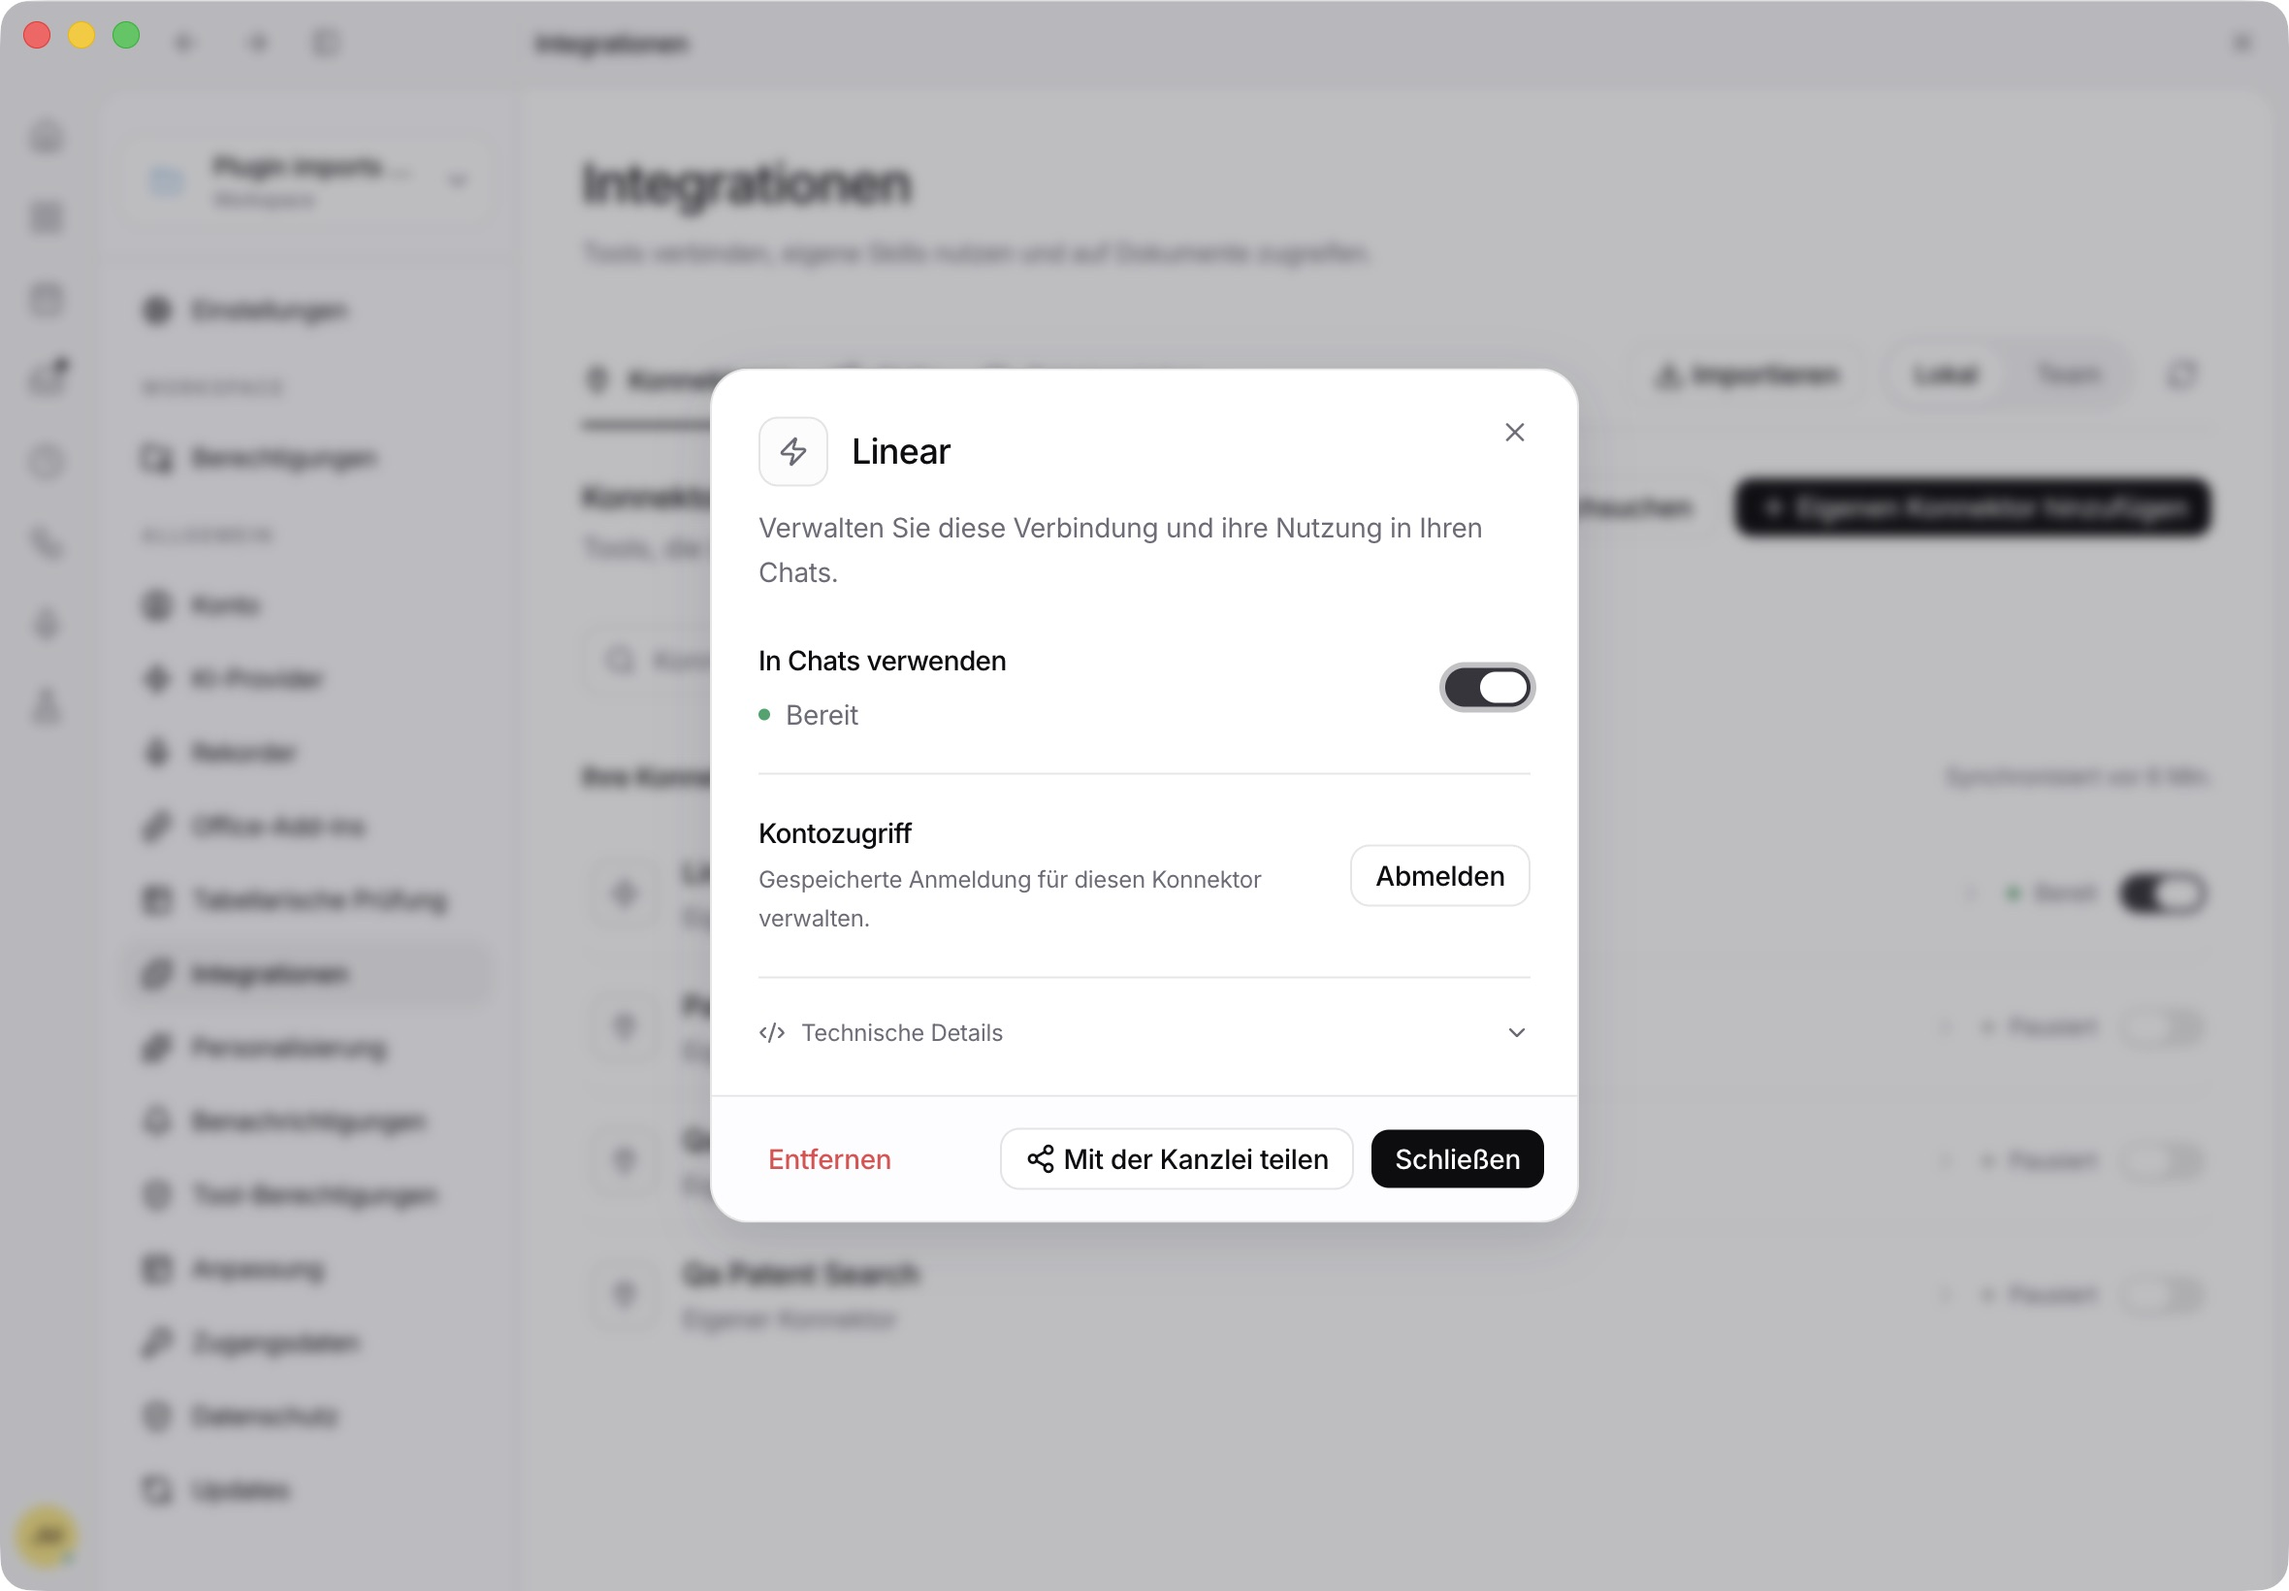
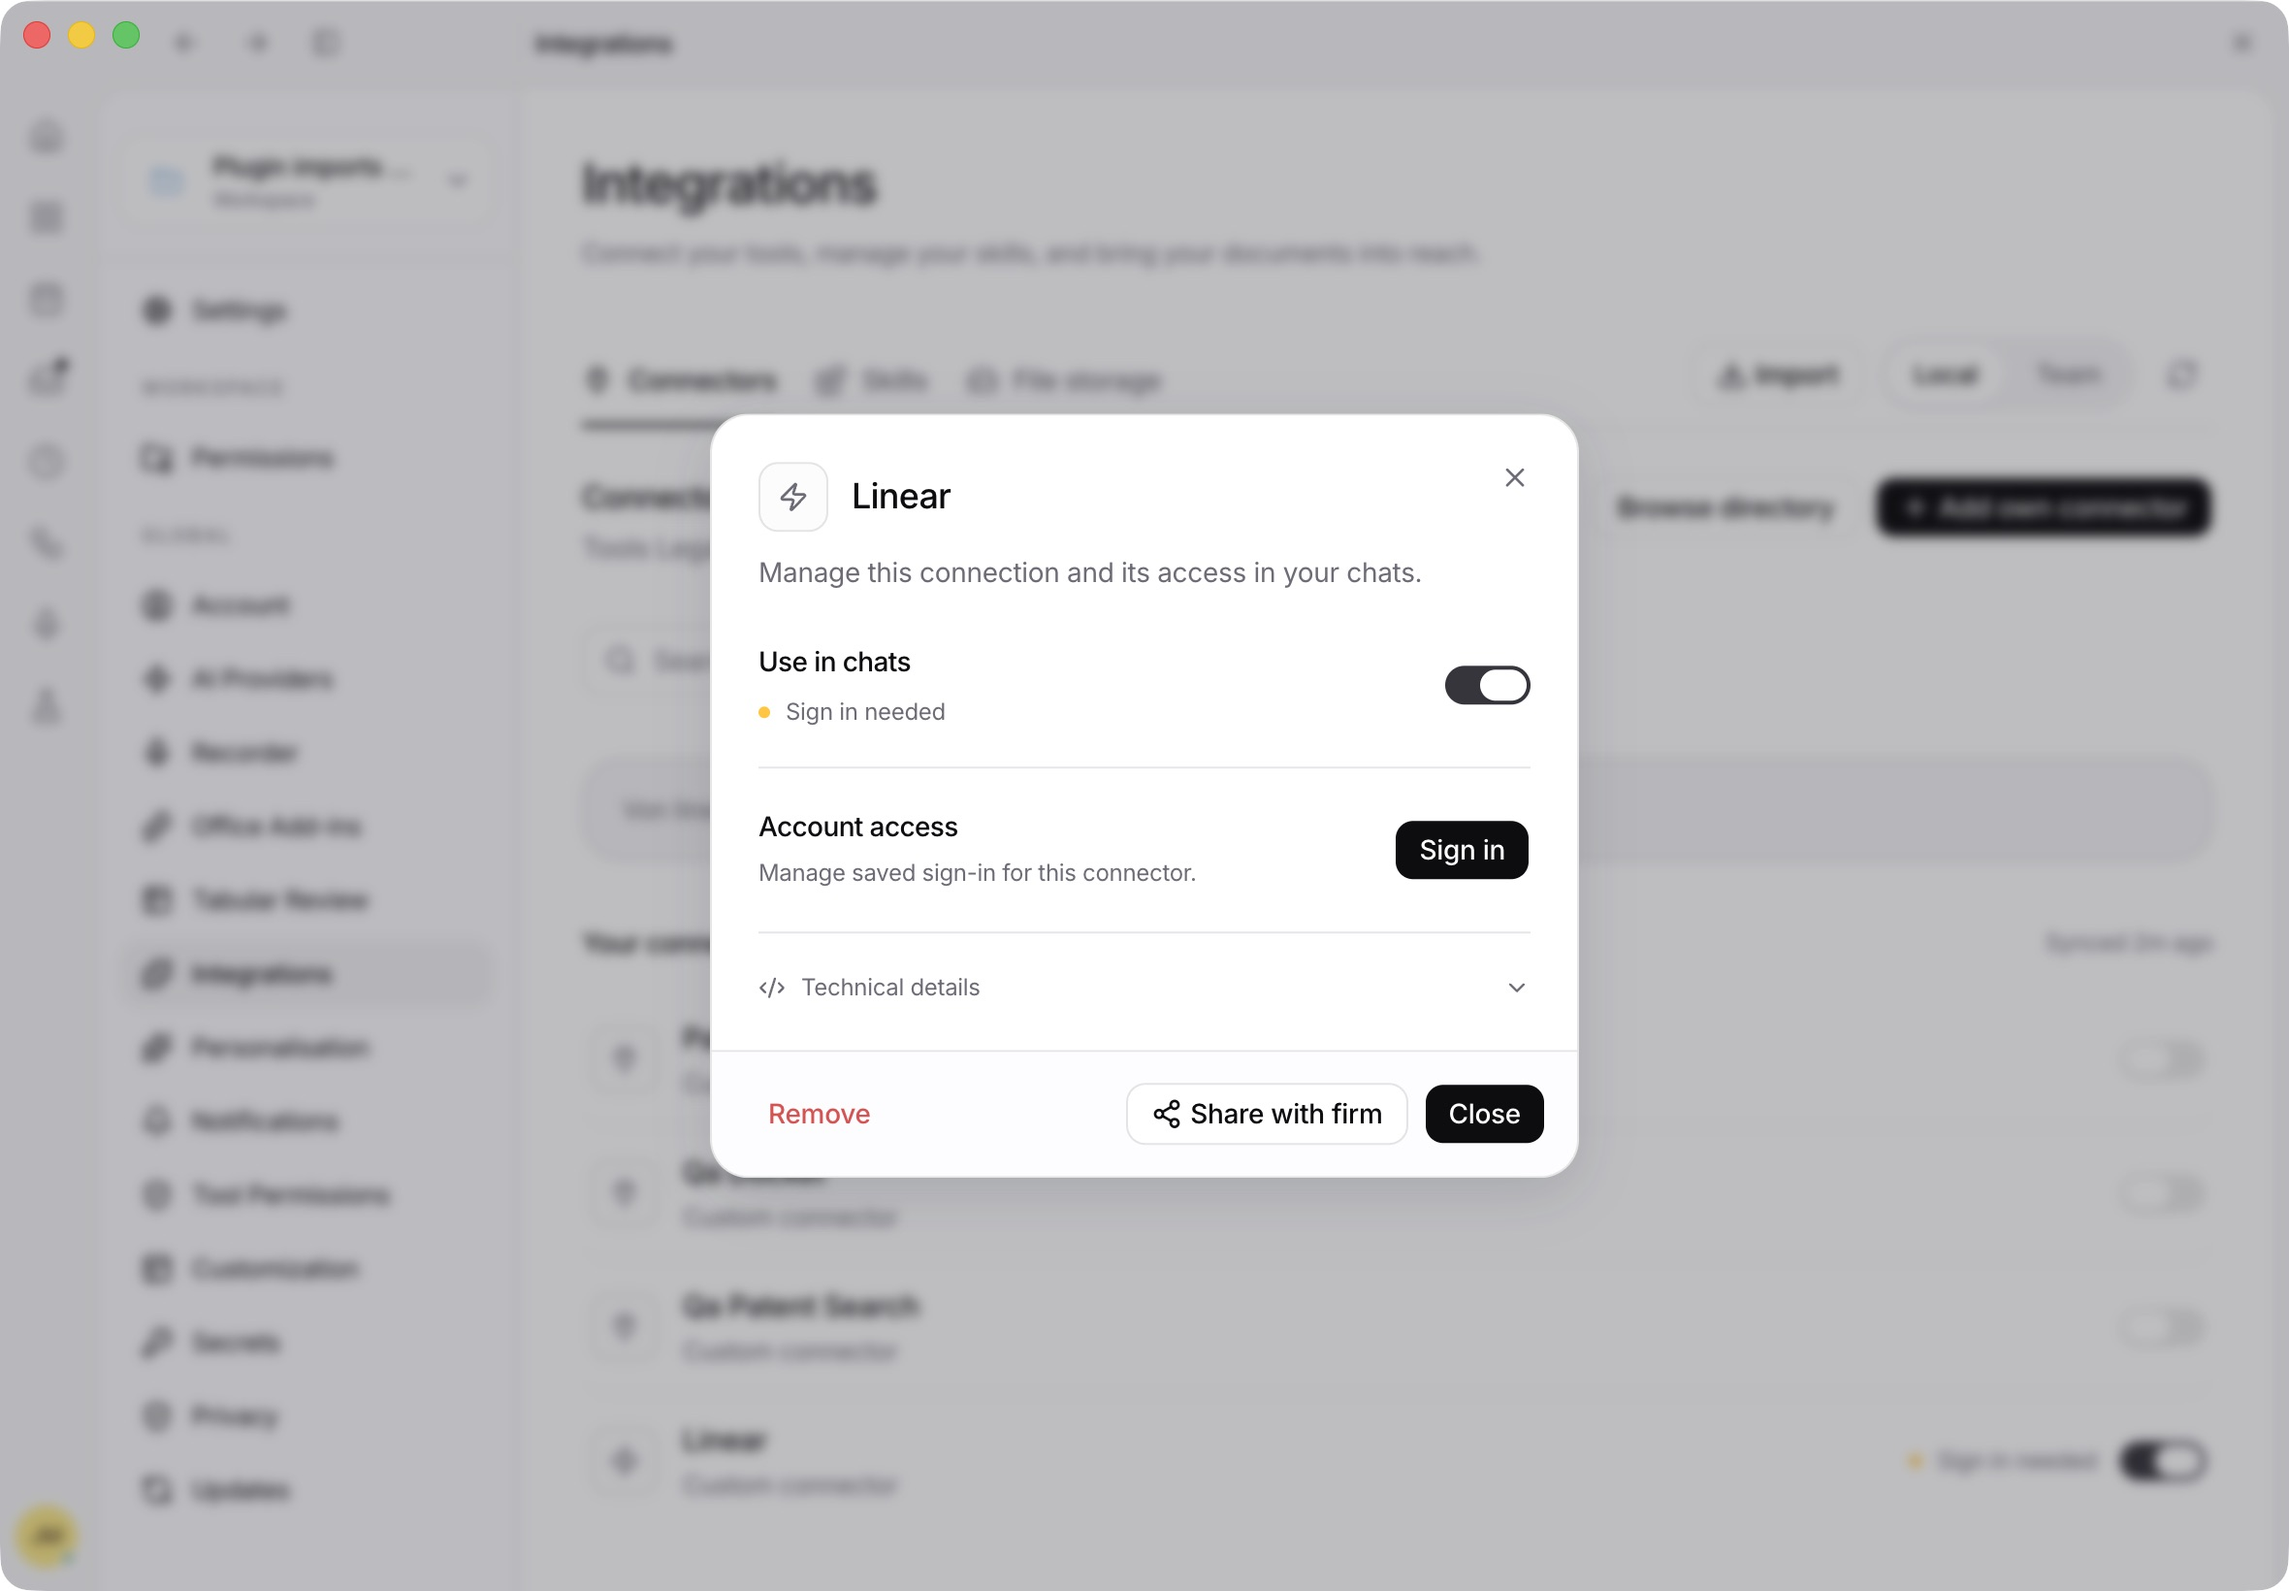
Hide redundant connector status beside toggles

diff --git a/apps/app/src/react-app/domains/settings/pages/mcp-view.tsx b/apps/app/src/react-app/domains/settings/pages/mcp-view.tsx
@@ -1314,10 +1314,7 @@ function McpConfiguredServerRow(props: {
             <div className="mt-0.5 truncate text-[13px] text-dls-secondary">{props.directoryEntry?.description ?? t("integrations.custom_connector")}</div>
           </div>
         </button>
-        <div className="flex shrink-0 items-center gap-2">
-          <div className={`size-1.5 rounded-full ${statusDot(props.status)}`} />
-          <span className="text-xs text-muted-foreground">{friendlyStatus(props.status)}</span>
-        </div>
+        <McpConnectorStatus {...props} />
         <McpConnectorToggle {...props} />
       </div>
 
@@ -1331,6 +1328,11 @@ function McpConfiguredServerIcon(props: Parameters<typeof McpConfiguredServerRow
   const Icon = serviceIcon(props.entry.name);
   return directory ? <LedgerBrandIcon name={directory.name} iconSlug={directory.iconSlug} iconSrc={directory.iconSrc} kind={directory.kind ?? "mcp"} /> :
     <div className="grid size-9 shrink-0 place-items-center rounded-lg border border-border bg-muted/30"><Icon className="size-4 text-muted-foreground" /></div>;
+}
+
+function McpConnectorStatus(props: Parameters<typeof McpConfiguredServerRow>[0]) {
+  if (props.onToggleEnabled && props.entry.source !== "config.global" && (props.status === "connected" || props.status === "disabled")) return null;
+  return <span className="flex shrink-0 items-center gap-2 text-xs text-muted-foreground"><span className={`size-1.5 rounded-full ${statusDot(props.status)}`} />{friendlyStatus(props.status)}</span>;
 }
 
 function McpConnectorToggle(props: Parameters<typeof McpConfiguredServerRow>[0]) {
@@ -1356,7 +1358,7 @@ function McpConfiguredServerDetails(props: Parameters<typeof McpConfiguredServer
       </DialogHeader>
       <div className="divide-y divide-border">
         <div className="flex items-center justify-between gap-4 pb-5">
-          <div className="space-y-2"><h3 className="text-sm font-medium">{t("integrations.connector_chat_access")}</h3><p className="flex items-center gap-2 text-sm text-muted-foreground"><span className={`size-1.5 rounded-full ${statusDot(props.status)}`} />{friendlyStatus(props.status)}</p></div>
+          <div className="space-y-2"><h3 className="text-sm font-medium">{t("integrations.connector_chat_access")}</h3><McpConnectorStatus {...props} /></div>
           <McpConnectorToggle {...props} />
         </div>
         {props.supportsOauth(props.entry) ? <div className="flex items-center justify-between gap-4 py-5">

diff --git a/docs/plugin-imports.md b/docs/plugin-imports.md
@@ -94,6 +94,6 @@ Native Electron verification found existing installations for both providers, fi
 
 Native Electron checks cover tab navigation, connector search and clear, directory filters/search/detail return, custom connector setup, skills search by a built-in command and imported name, the management menu and editor, package filtering, storage provider search, configuration and Change provider. These checks did not add or remove a real connection. The application suite passed 940 tests; the final focused library/setup/import suite passed 20 tests. App type checking, production build and the English/German translation check passed. Regression coverage includes libraries with more than eight ordinary skills, built-in command search, configured connector ordering, read-only global connectors, separate provider discovery, and local/team storage membership.
 
-The single top-toolbar action and branded provider chooser were checked in Electron, including ChatGPT and Claude discovery, component review, Change app and keyboard focus returning to the chooser/search. The import footer's project-availability label is removed. The compact connector management dialog was checked with the technical disclosure and both sign-out/removal confirmations; cancelling each returns to the dialog without changing the connection.
+The single top-toolbar action and branded provider chooser were checked in Electron, including ChatGPT and Claude discovery, component review, Change app and keyboard focus returning to the chooser/search. The import footer's project-availability label is removed. The compact connector management dialog was checked with the technical disclosure and both sign-out/removal confirmations; cancelling each returns to the dialog without changing the connection. Ready/Paused labels and dots are hidden beside enablement toggles in both the list and management dialog; sign-in, offline and error statuses remain visible. Read-only connectors without toggles retain their status labels.
 
 `pnpm --filter @legalwork/app exec bun test tests/mcp-library.test.tsx tests/mcp-logout-truthfulness.test.ts tests/plugin-import-buttons.test.tsx tests/integration-libraries.test.tsx tests/add-mcp-modal.test.tsx` passed 30 tests. App type checking, production build and the locale check passed (5,729 keys per language).
